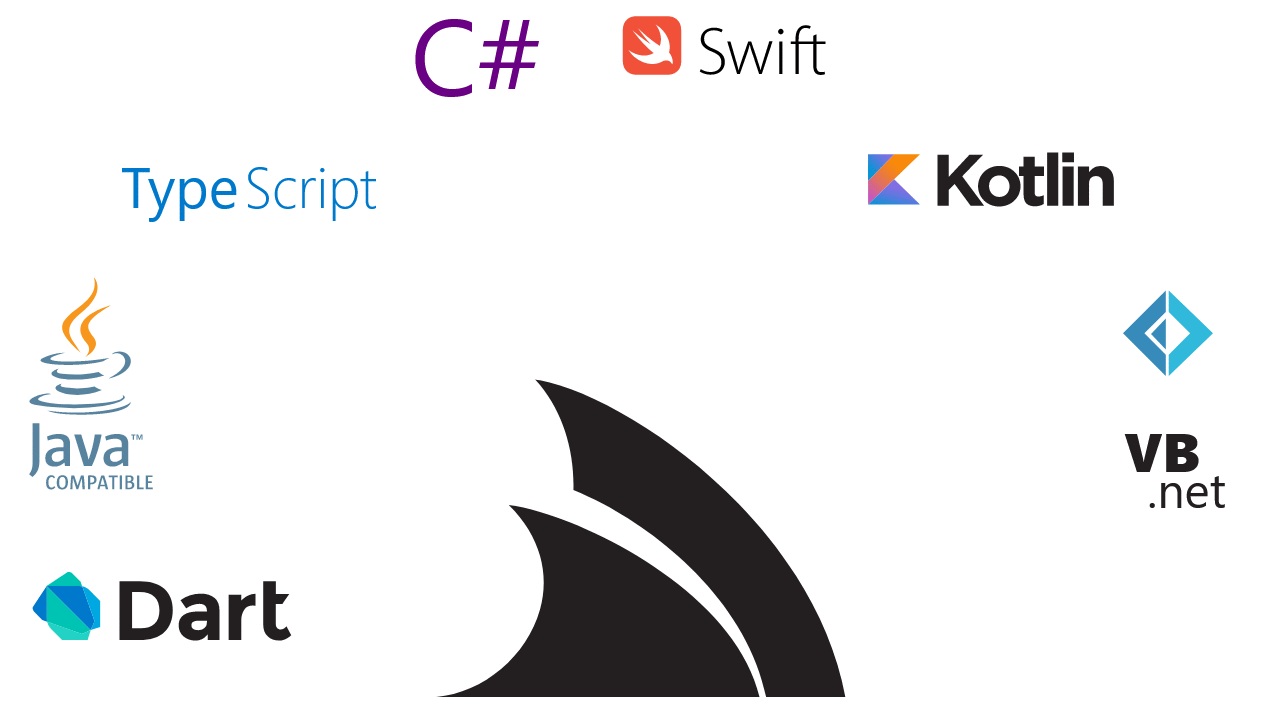
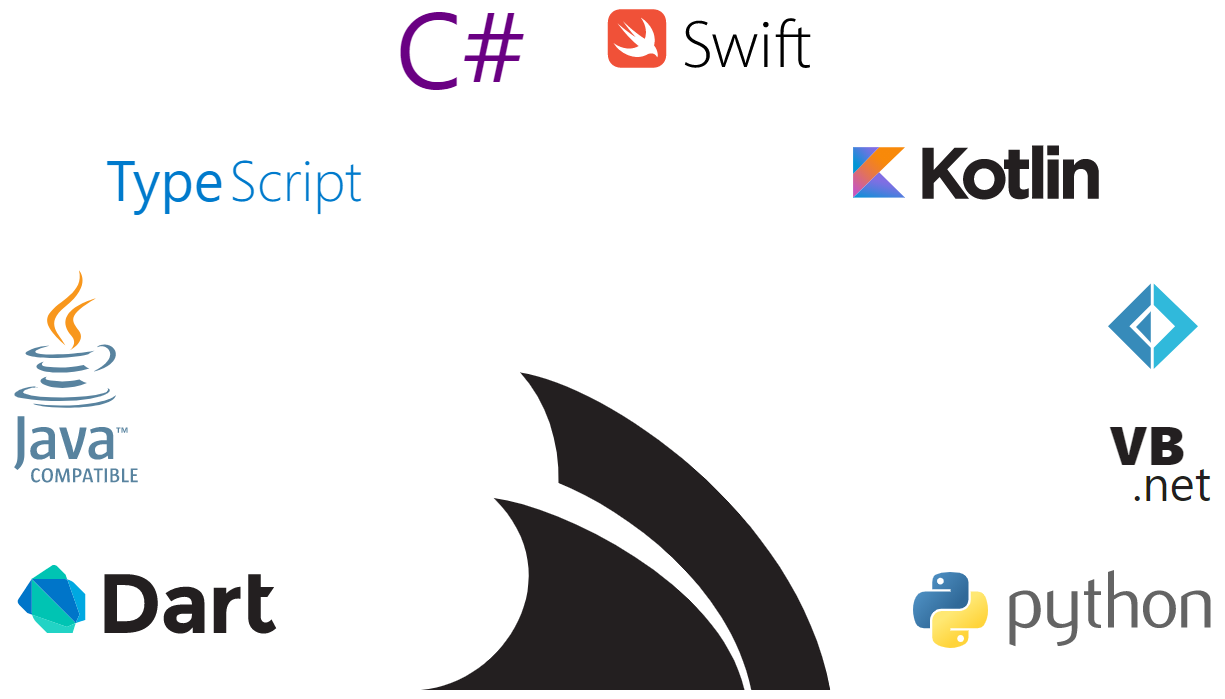
Integrate Python and Jupyter Notebook features

diff --git a/_layouts/default.html b/_layouts/default.html
@@ -80,21 +80,8 @@
 
     {% include home/feature-service-clients.html %}
 
-    {% include home/feature-video-right.html
-    youtube_id="GTnuMhvUayg"
-    local_link_id="instant-client-apps-feature"
-    title="Instant Client Apps"
-    bg_class="bg-gray-100"
-    embed_html="
-    <p>Generate working native client apps for <b>your</b> live ServiceStack services, in a variety of languages, instantly with our free managed service.</p>
-    <p>This tool enables your developers, and even your customers, to open a working example native application straight from the web to their favorite IDE.</p>
-    "
-    page_content_ref="home/instant-client-apps-content.html"
-    learn_url="https://apps.servicestack.net"
-    %}
-
     {% include home/feature-video-left.html
-    youtube_id="cbYuem1b2tg,xg677weFef4,EaUcPXVeLpk,T3KTDPdovOw,nmB0NaI9-3k"
+    youtube_id="WjbhfH45i5k,cbYuem1b2tg,xg677weFef4,EaUcPXVeLpk,T3KTDPdovOw,nmB0NaI9-3k"
     local_link_id="add-ss-ref-feature"
     title="Add ServiceStack Reference"
     bg_class="bg-white"
@@ -115,6 +102,31 @@
     <p>Smart Typed Clients simplify integration, with the ability to use generated DTO classes to created a typed end-to-end integration with any ServiceStack application.</p>
     "
     learn_url="https://docs.servicestack.net/clients-overview"
+    %}
+
+    {% include home/feature-video-left.html
+    youtube_id="h6UwDuXt8MA,vt92pbet5bY,PxH3K5WIDx8"
+    local_link_id="jupyter-notebooks"
+    title="Jupyter Notebooks"
+    bg_class="bg-white"
+    embed_html="
+    <p>Jupyter is an exciting initiative to support an open standards, language agnostic interactive computing platform where it provides the ideal integrated exploratory programming environment for data science and scientific computing.</p>
+    <p>We've fully embraced this new paradigm with effortless UI and command-line tools for generating pre-populated Python, C# and F# Jupyter Notebooks</p>
+    "
+    learn_url="https://docs.servicestack.net/jupyter-notebooks"
+    %}
+
+    {% include home/feature-video-right.html
+    youtube_id="GTnuMhvUayg"
+    local_link_id="instant-client-apps-feature"
+    title="Instant Client Apps"
+    bg_class="bg-gray-100"
+    embed_html="
+    <p>Generate working native client apps for <b>your</b> live ServiceStack services, in a variety of languages, instantly with our free managed service.</p>
+    <p>This tool enables your developers, and even your customers, to open a working example native application straight from the web to their favorite IDE.</p>
+    "
+    page_content_ref="home/instant-client-apps-content.html"
+    learn_url="https://apps.servicestack.net"
     %}
 
     {% include home/feature-apimap.html %}

diff --git a/_pages/fundamentals-clients.html b/_pages/fundamentals-clients.html
@@ -68,6 +68,7 @@ permalink: /start/clients
                         <ul>
                             <li class="list-inside list-disc"><a href="https://docs.servicestack.net/csharp-client">C#/.NET Client</a></li>
                             <li class="list-inside list-disc"><a href="https://docs.servicestack.net/typescript-add-servicestack-reference">TypeScript Client</a></li>
+                            <li class="list-inside list-disc"><a href="https://docs.servicestack.net/python-add-servicestack-reference">Python Client</a></li>
                             <li class="list-inside list-disc"><a href="https://docs.servicestack.net/kotlin-add-servicestack-reference">Kotlin Client</a></li>
                             <li class="list-inside list-disc"><a href="https://docs.servicestack.net/java-add-servicestack-reference">Java Client</a></li>
                             <li class="list-inside list-disc"><a href="https://docs.servicestack.net/swift-add-servicestack-reference">Swift Client</a></li>
@@ -163,7 +164,9 @@ permalink: /start/clients
                     </div>
                 </div>
                 <div class="w-full lg:w-1/2 px-4 mt-16 lg:mt-24">
-                    <img src="/images/start/add-ss-ref.png" alt="Add ServiceStack Reference">
+                    <a href="https://docs.servicestack.net/add-servicestack-reference">
+                        <img src="/images/start/add-ss-ref.png" alt="Add ServiceStack Reference">
+                    </a>
                 </div>
                 <div class="w-full lg:w-1/2 mt-16 lg:mt-24">
                     <h2>Instant Client Apps</h2>

diff --git a/_includes/home/feature-service-clients.html b/_includes/home/feature-service-clients.html
@@ -55,6 +55,9 @@
                     <a class="bg-white shadow-lg rounded-full cursor-pointer" href="https://docs.servicestack.net/typescript-add-servicestack-reference">
                         <img class="" src="images/svgs/node.svg" style="transform:scale(.9) translateY(20%)" alt="Node.js">
                     </a>
+                    <a class="bg-white shadow-lg rounded-full cursor-pointer" href="https://docs.servicestack.net/python-add-servicestack-reference">
+                        <img src="images/svgs/python.svg" style="transform:scale(.90)" alt="Python">
+                    </a>
                     <a class="bg-white shadow-lg rounded-full cursor-pointer" href="https://docs.servicestack.net/dart-add-servicestack-reference">
                         <img src="images/svgs/dart.svg" alt="Dart">
                     </a>

diff --git a/_includes/home/instant-client-apps-content.html b/_includes/home/instant-client-apps-content.html
@@ -3,6 +3,7 @@
         <ul class="feature-list text-left">
             <li><img class="w-10 h-10 inline-block" src="/images/svgs/csharp.svg" style="transform:scale(.6)" alt="C#"> C#</li>
             <li><img class="w-10 h-10 inline-block" src="/images/svgs/node.svg" style="transform:scale(0.9)" alt="Node.js"> NodeJS</li>
+            <li><img class="w-10 h-10 inline-block" src="/images/svgs/python.svg" style="transform:scale(0.8)" alt="Python"> Python</li>
             <li><img class="w-10 h-10 inline-block" src="/images/svgs/dart.svg" style="transform:scale(.8)" alt="Dart"> Dart</li>
             <li><img class="w-10 h-10 inline-block" src="/images/svgs/java.svg" style="transform:scale(.8)" alt="Java"> Java</li>
         </ul>

diff --git a/_includes/home/testimonials-section.html b/_includes/home/testimonials-section.html
@@ -81,7 +81,7 @@
 
         <div class="flex justify-center mt-8 pt-8">
             <a href="https://www.nuget.org/profiles/servicestack" class="text-gray-500 hover:text-blue-500">
-                <div class="tick" data-did-init="handleTickInit" data-value="77041512" style="width:330px">
+                <div class="tick" data-did-init="handleTickInit" data-value="85634511" style="width:330px">
                 <span data-layout="horizontal fit">
                     <span data-repeat="true">
                         <span data-view="flip"></span>

diff --git a/_includes/home/feature-thirdparty.html b/_includes/home/feature-thirdparty.html
@@ -178,6 +178,7 @@
                         <ul>
                             <li>C#</li>
                             <li>TypeScript</li>
+                            <li>Python</li>
                             <li>Swift</li>
                             <li>Java</li>
                             <li>Kotlin</li>
